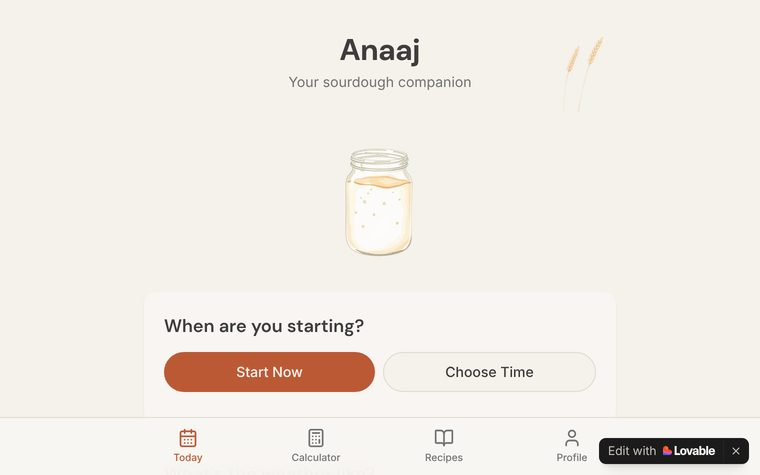
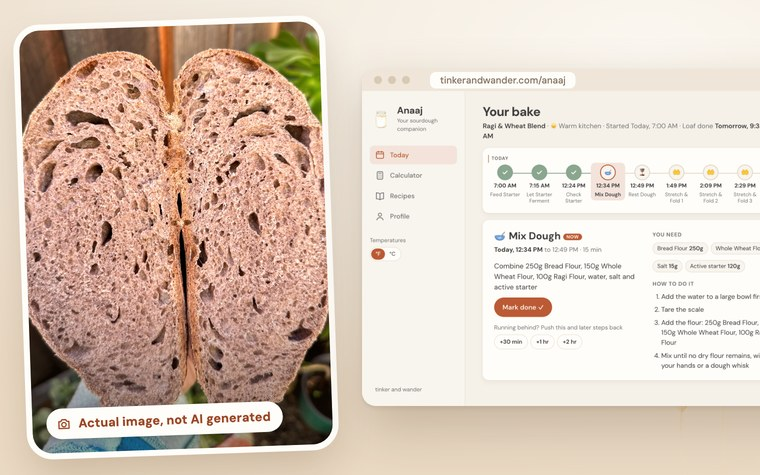
Show a real loaf and the new Anaaj on its card
Replace the old Lovable screenshot with a photo of one of my loaves cut
open (labeled as an actual image, not AI generated) next to the new
laptop bake planner. Update the Anaaj tile in the share image to match.

diff --git a/index.html b/index.html
@@ -507,7 +507,7 @@ section { padding-top: clamp(56px, 7vw, 96px); padding-bottom: clamp(56px, 7vw, 
       <article class="project">
         <div class="brick"><span class="studs" aria-hidden="true"><i></i><i></i><i></i><i></i><i></i><i></i><i></i><i></i></span></div>
         <div class="projectBody">
-          <a class="shot" href="/anaaj" aria-label="Open Anaaj"><img src="/images/anaaj.jpg" width="760" height="475" loading="lazy" decoding="async" alt="Anaaj, a sourdough companion app, asking when you are starting your bake"></a>
+          <a class="shot" href="/anaaj" aria-label="Open Anaaj"><img src="/images/anaaj.jpg" width="760" height="475" loading="lazy" decoding="async" alt="A real photo of one of my sourdough loaves cut in half, next to the Anaaj bake planner on a laptop"></a>
           <p class="for">For the kitchen</p>
           <p class="question">Why does a first sourdough loaf feel so hard to start?</p>
           <h3>Anaaj</h3>
